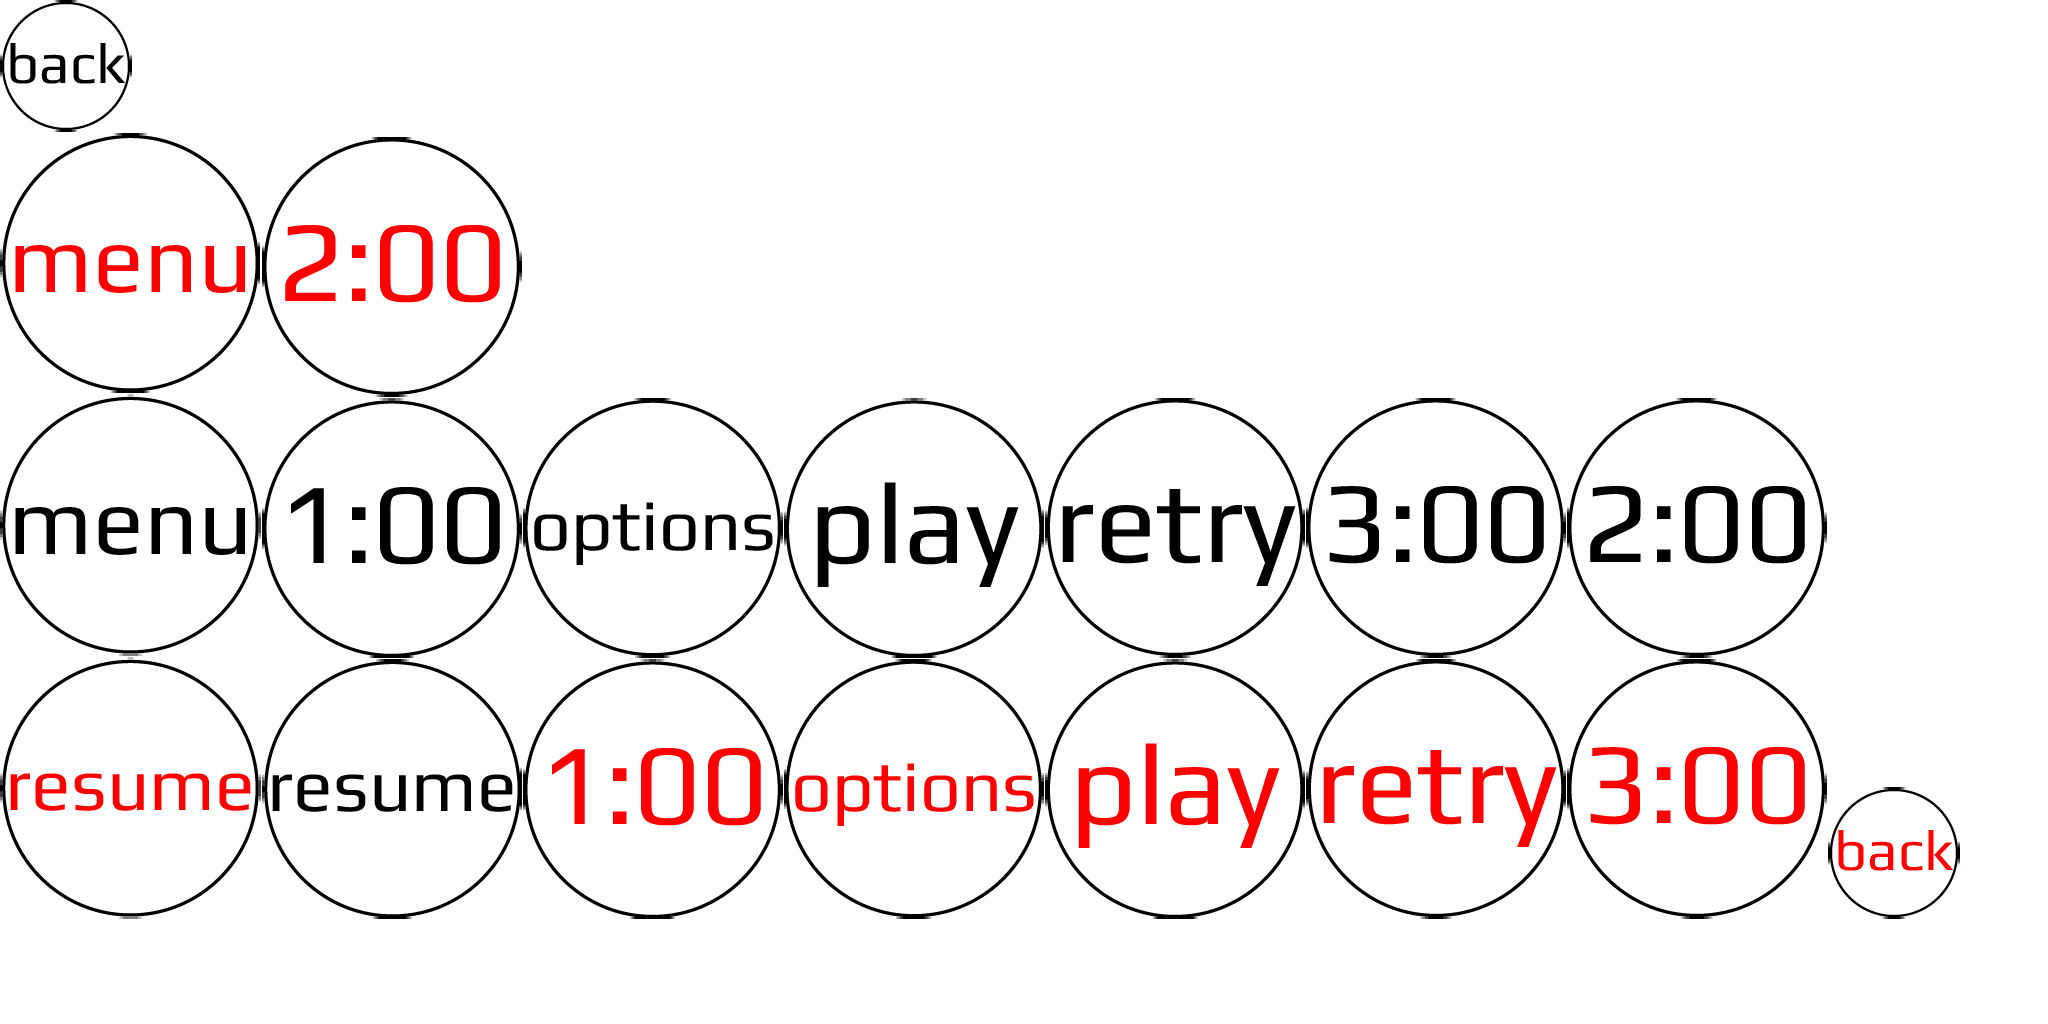
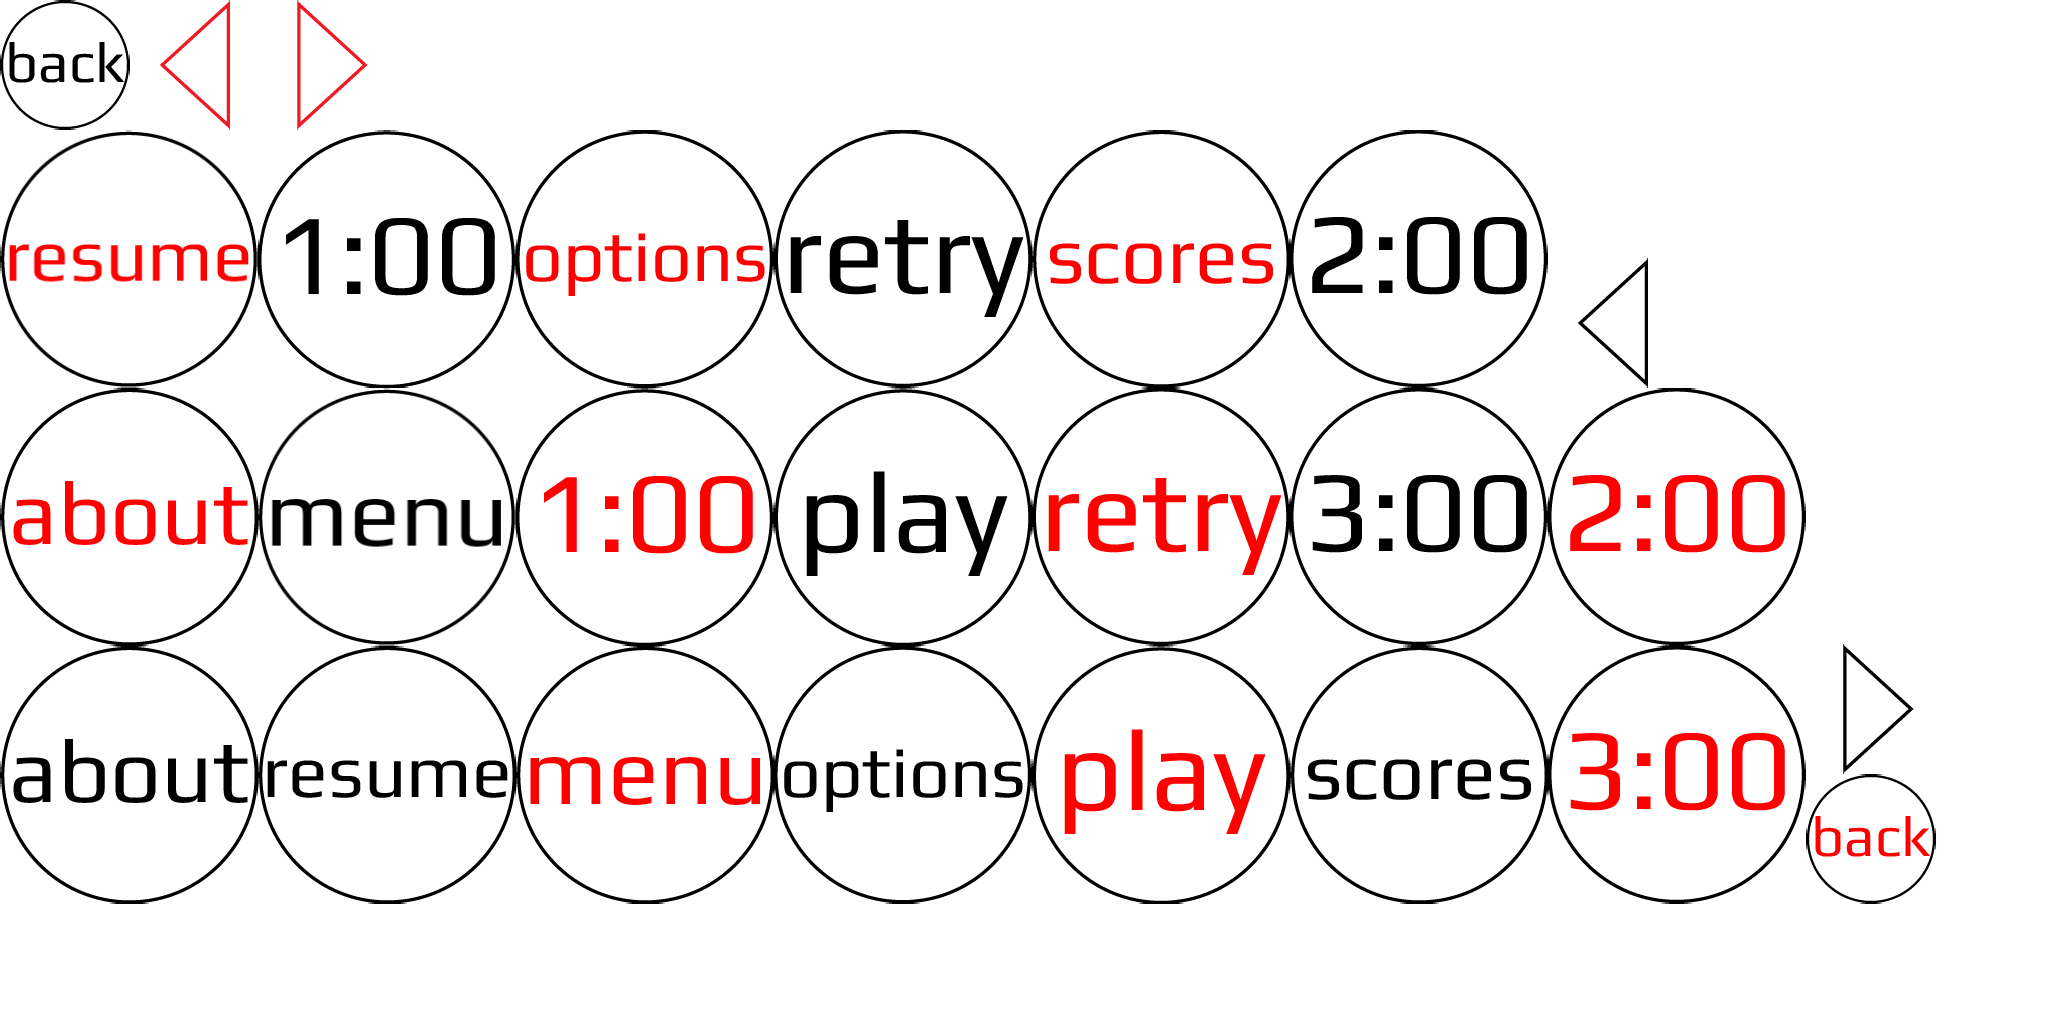
bonuses are setup and more buttons were added

diff --git a/core/src/com/hypetrainstudios/dontmiss/handlers/AssetHandler.java b/core/src/com/hypetrainstudios/dontmiss/handlers/AssetHandler.java
@@ -11,9 +11,6 @@ public class AssetHandler {
 	public static final AssetManager manager = new AssetManager();
 
 	public static final AssetDescriptor<Texture> imgTurretLayout = new AssetDescriptor<Texture>("turretLayout.png", Texture.class);
-	public static final AssetDescriptor<Texture> imgTurretRed = new AssetDescriptor<Texture>("turretRed.png", Texture.class);
-	public static final AssetDescriptor<Texture> imgTurretBlue = new AssetDescriptor<Texture>("turretBlue.png", Texture.class);
-	public static final AssetDescriptor<Texture> imgTurretYellow = new AssetDescriptor<Texture>("turretYellow.png", Texture.class);
 
 	public static final AssetDescriptor<Texture> imgProjectileRed = new AssetDescriptor<Texture>("projectileRed.png", Texture.class);
 	public static final AssetDescriptor<Texture> imgProjectileBlue = new AssetDescriptor<Texture>("projectileBlue.png", Texture.class);
@@ -26,15 +23,12 @@ public class AssetHandler {
 	public static final AssetDescriptor<Texture> imgTintBG = new AssetDescriptor<Texture>("tintBG.png", Texture.class);
 	
 	public static final AssetDescriptor<TextureAtlas> atlasButtons = new AssetDescriptor<TextureAtlas>("buttons/buttons.pack", TextureAtlas.class);
-	public static final AssetDescriptor<TextureAtlas> atlasLoadingProjBlue = new AssetDescriptor<TextureAtlas>("loadingProj/loadingProjBlue.pack", TextureAtlas.class);
+	public static final AssetDescriptor<TextureAtlas> atlasLoadingProjBlue = new AssetDescriptor<TextureAtlas>("loadingProj/loadingProj.pack", TextureAtlas.class);
 	
 	public static final AssetDescriptor<BitmapFont> fontPlay = new AssetDescriptor<BitmapFont>("playFont/play.fnt", BitmapFont.class);
 	
 	public static void load(){
 		manager.load(imgTurretLayout);
-		manager.load(imgTurretRed);
-		manager.load(imgTurretBlue);
-		manager.load(imgTurretYellow);
 
 		manager.load(imgProjectileRed);
 		manager.load(imgProjectileBlue);
@@ -54,9 +48,6 @@ public class AssetHandler {
 
 	public static void setTextures(){
 		manager.get(imgTurretLayout).setFilter(TextureFilter.Linear,TextureFilter.Linear);
-		manager.get(imgTurretRed).setFilter(TextureFilter.Linear,TextureFilter.Linear);
-		manager.get(imgTurretBlue).setFilter(TextureFilter.Linear,TextureFilter.Linear);
-		manager.get(imgTurretYellow).setFilter(TextureFilter.Linear,TextureFilter.Linear);
 
 		manager.get(imgProjectileRed).setFilter(TextureFilter.Linear,TextureFilter.Linear);
 		manager.get(imgProjectileBlue).setFilter(TextureFilter.Linear,TextureFilter.Linear);

diff --git a/core/src/com/hypetrainstudios/dontmiss/screens/PlayScreen.java b/core/src/com/hypetrainstudios/dontmiss/screens/PlayScreen.java
@@ -150,15 +150,16 @@ public class PlayScreen implements Screen {
 		stage.addActor(imgTintBG);
 		stage.addActor(btnRetry);
 		
-		
+	
 		
 	}
 	
 	@Override
 	public void render(float delta) {
+		Gdx.gl.glClearColor(1,1,1,1);
+		Gdx.gl.glClear(GL20.GL_COLOR_BUFFER_BIT);
+		
 		if(running&&(!(gameOver))){
-			Gdx.gl.glClearColor(1,1,1,1);
-			Gdx.gl.glClear(GL20.GL_COLOR_BUFFER_BIT);
 			
 			Creator.update(delta);
 			
@@ -176,6 +177,9 @@ public class PlayScreen implements Screen {
 			
 			updateUI();
 			
+			System.out.println(Gdx.graphics.getFramesPerSecond());
+			
+
 			ProjectileLoading.update(delta);
 		}
 		if(gameOver){

diff --git a/core/src/com/hypetrainstudios/dontmiss/entity/ProjectileLoading.java b/core/src/com/hypetrainstudios/dontmiss/entity/ProjectileLoading.java
@@ -10,7 +10,7 @@ import com.hypetrainstudios.dontmiss.handlers.AssetHandler;
 
 public class ProjectileLoading{
 	
-	public static Animation animLoadingBlue = new Animation(1/30f,AssetHandler.manager.get(AssetHandler.atlasLoadingProjBlue).findRegions("turretBlue"));;
+	public static Animation animLoadingBlue = new Animation(1/30f,AssetHandler.manager.get(AssetHandler.atlasLoadingProjBlue).findRegions("loadingProjBlue"));;
 	public static Sprite spr = new Sprite(animLoadingBlue.getKeyFrame(0));
 	public static float time;
 	

diff --git a/core/src/com/hypetrainstudios/dontmiss/Creator.java b/core/src/com/hypetrainstudios/dontmiss/Creator.java
@@ -20,7 +20,10 @@ public class Creator {
 	
 	public static float spawnWaveRate = 7;
 	public static float spawnWaveCounter = 7;
+	public static float spawnRateMax,spawnRateMin;
+	
 	public static float fireRate = .8f;
+	public static float fireRateMin,fireRateMax;
 	public static float fireRateCounter = .8f;
 	
 	public static ArrayList<Enemy> enemies = new ArrayList<Enemy>();

diff --git a/desktop/src/com/hypetrainstudios/dontmiss/desktop/DesktopLauncher.java b/desktop/src/com/hypetrainstudios/dontmiss/desktop/DesktopLauncher.java
@@ -8,8 +8,8 @@ public class DesktopLauncher {
 	public static void main (String[] arg) {
 		LwjglApplicationConfiguration config = new LwjglApplicationConfiguration();
 		new LwjglApplication(new DontMiss(), config);
-		config.height = 1080;
-		config.width = 1920;
+		config.height = 720;
+		config.width = 1280;
 		config.resizable = false;
 	}
 }

diff --git a/core/src/com/hypetrainstudios/dontmiss/challenges/FrostChallenge.java b/core/src/com/hypetrainstudios/dontmiss/challenges/FrostChallenge.java
@@ -6,10 +6,14 @@ public class FrostChallenge extends Challenge{
 
 	@Override
 	public void update(float delta) {
-		if(currentCode==codeCollision)
+		if(currentCode==codeCollision){
 			Creator.fireRate/=2;
-		if(currentCode==codeMiss)
-			Creator.fireRate*=2;
+		}
+			
+		if(currentCode==codeMiss){
+			Creator.fireRate*=1.1;
+		}
+			
 	}
 	
 }

diff --git a/core/src/com/hypetrainstudios/dontmiss/bonuses/BonusCollateralProjectiles.java b/core/src/com/hypetrainstudios/dontmiss/bonuses/BonusCollateralProjectiles.java
@@ -1,0 +1,5 @@
+package com.hypetrainstudios.dontmiss.bonuses;
+
+public class BonusCollateralProjectiles {
+
+}

diff --git a/core/src/com/hypetrainstudios/dontmiss/bonuses/BonusExplosiveProjectiles.java b/core/src/com/hypetrainstudios/dontmiss/bonuses/BonusExplosiveProjectiles.java
@@ -1,0 +1,5 @@
+package com.hypetrainstudios.dontmiss.bonuses;
+
+public class BonusExplosiveProjectiles {
+
+}

diff --git a/core/src/com/hypetrainstudios/dontmiss/bonuses/BonusMultipleProjectiles.java b/core/src/com/hypetrainstudios/dontmiss/bonuses/BonusMultipleProjectiles.java
@@ -1,0 +1,5 @@
+package com.hypetrainstudios.dontmiss.bonuses;
+
+public class BonusMultipleProjectiles {
+
+}

diff --git a/core/src/com/hypetrainstudios/dontmiss/challenges/MovingPlayerChallenge.java b/core/src/com/hypetrainstudios/dontmiss/challenges/MovingPlayerChallenge.java
@@ -1,0 +1,5 @@
+package com.hypetrainstudios.dontmiss.challenges;
+
+public class MovingPlayerChallenge {
+
+}

diff --git a/core/src/com/hypetrainstudios/dontmiss/bonuses/BonusGuidedProjectiles.java b/core/src/com/hypetrainstudios/dontmiss/bonuses/BonusGuidedProjectiles.java
@@ -1,0 +1,5 @@
+package com.hypetrainstudios.dontmiss.bonuses;
+
+public class BonusGuidedProjectiles {
+
+}

diff --git a/core/src/com/hypetrainstudios/dontmiss/bonuses/BonusSheild.java b/core/src/com/hypetrainstudios/dontmiss/bonuses/BonusSheild.java
@@ -1,0 +1,5 @@
+package com.hypetrainstudios.dontmiss.bonuses;
+
+public class BonusSheild {
+
+}
